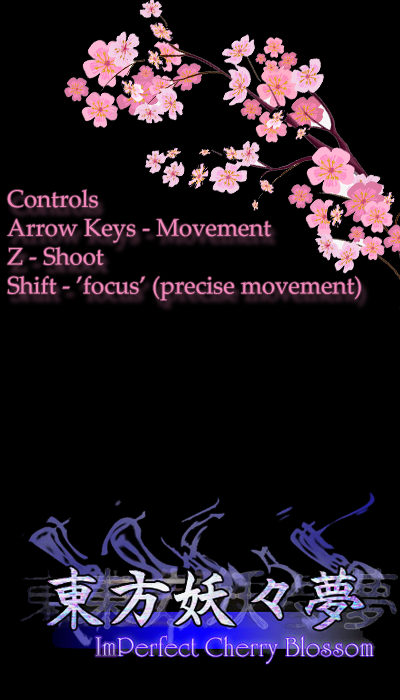
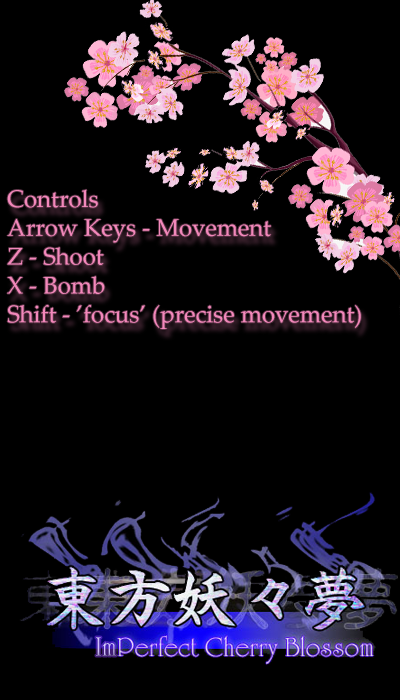
bomb sound, bomb control added to hud

Changed region(s): [[0.0, 0.39, 0.93, 0.48]]

diff --git a/main.js b/main.js
@@ -5,6 +5,7 @@ var soundBuffer = null;
 var gainNode = null;
 var gainNode2 = null;
 var gainNode1 = null;
+var gainNode3 = null;
 var gameEngine = null;
 var mute = false;
 var stopSpawn = false;
@@ -281,8 +282,25 @@ function playBGM(buffer)
 	}
 	
 	source1.start(0); 
+}
+
+function playBomb(buffer)
+{
+	var source3 = audioCtx.createBufferSource(); // creates a sound source
+	gainNode3 = audioCtx.createGain();
+	source3.buffer = buffer;                    // tell the source which sound to play
+	source3.connect(gainNode3);
+	gainNode3.connect(audioCtx.destination);       // connect the source to the context's destination (the speakers)
+	if(mute)
+	{
+		gainNode3.gain.value = 0;
+	}
+	else
+	{
+		gainNode3.gain.value = 0.14;
+	}
 	
-	
+	source3.start(0); 
 }
 
 function Background(game, spritesheet) {
@@ -601,6 +619,8 @@ Reimu.prototype.update = function () {
 			this.bombs--;
 			//DO BOMB STUFF
 			
+			playBomb(soundBuffer[3]);
+			
 			for (var i = 0; i < this.game.entities.length; i++) 
         	{
                 if(this.game.entities[i].isEnemy)
@@ -661,6 +681,10 @@ Reimu.prototype.update = function () {
 				{
 					gainNode2.gain.value = 0;
 				}
+				if(gainNode3 != null)
+				{
+					gainNode3.gain.value = 0;
+				}
 				mute = true;
 			}
 			else if(mute)
@@ -677,6 +701,10 @@ Reimu.prototype.update = function () {
 				if(gainNode2 != null)
 				{
 					gainNode2.gain.value = 0.2;
+				}
+				if(gainNode3 != null)
+				{
+					gainNode3.gain.value = 0.14;
 				}
 				mute = false;
 			}
@@ -1938,6 +1966,7 @@ function starter() {
 				'./audio/sennen.ogg',
 				'./audio/attack3.ogg',
 				'./audio/dead.ogg',
+				'./audio/spellcard.ogg',
 			],
 			function(buffer) {
 				console.log("Callback");
@@ -1968,6 +1997,10 @@ function restart(gameEngine, ctx) {
 	if(gainNode2 != null)
 	{
 		gainNode2.gain.value = 0;
+	}
+	if(gainNode3 != null)
+	{
+		gainNode3.gain.value = 0;
 	}
 	
 	gainNode = null
